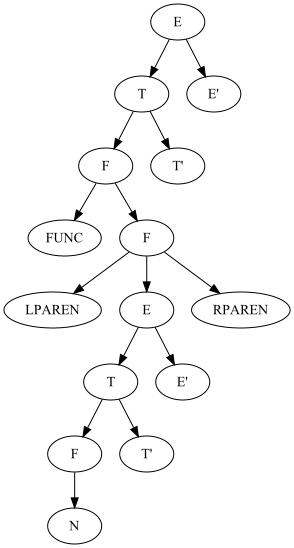
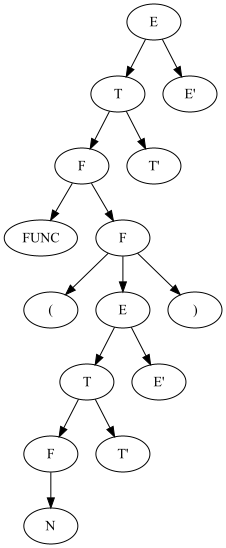
changed LPAREN to ( in trees added test with negative number

diff --git a/mt/lab2/src/main/java/ru/ainur/parser/BaseParser.java b/mt/lab2/src/main/java/ru/ainur/parser/BaseParser.java
@@ -117,13 +117,13 @@ public class BaseParser {
             case LPAREN:
                 //(
                 expect(Token.LPAREN);
-                tree.addChildren(new Tree("LPAREN"));
+                tree.addChildren(new Tree("("));
                 lexer.nextToken();
                 //E
                 tree.addChildren(E());
                 //)
                 expect(Token.RPAREN);
-                tree.addChildren(new Tree("RPAREN"));
+                tree.addChildren(new Tree(")"));
                 lexer.nextToken();
                 break;
 
